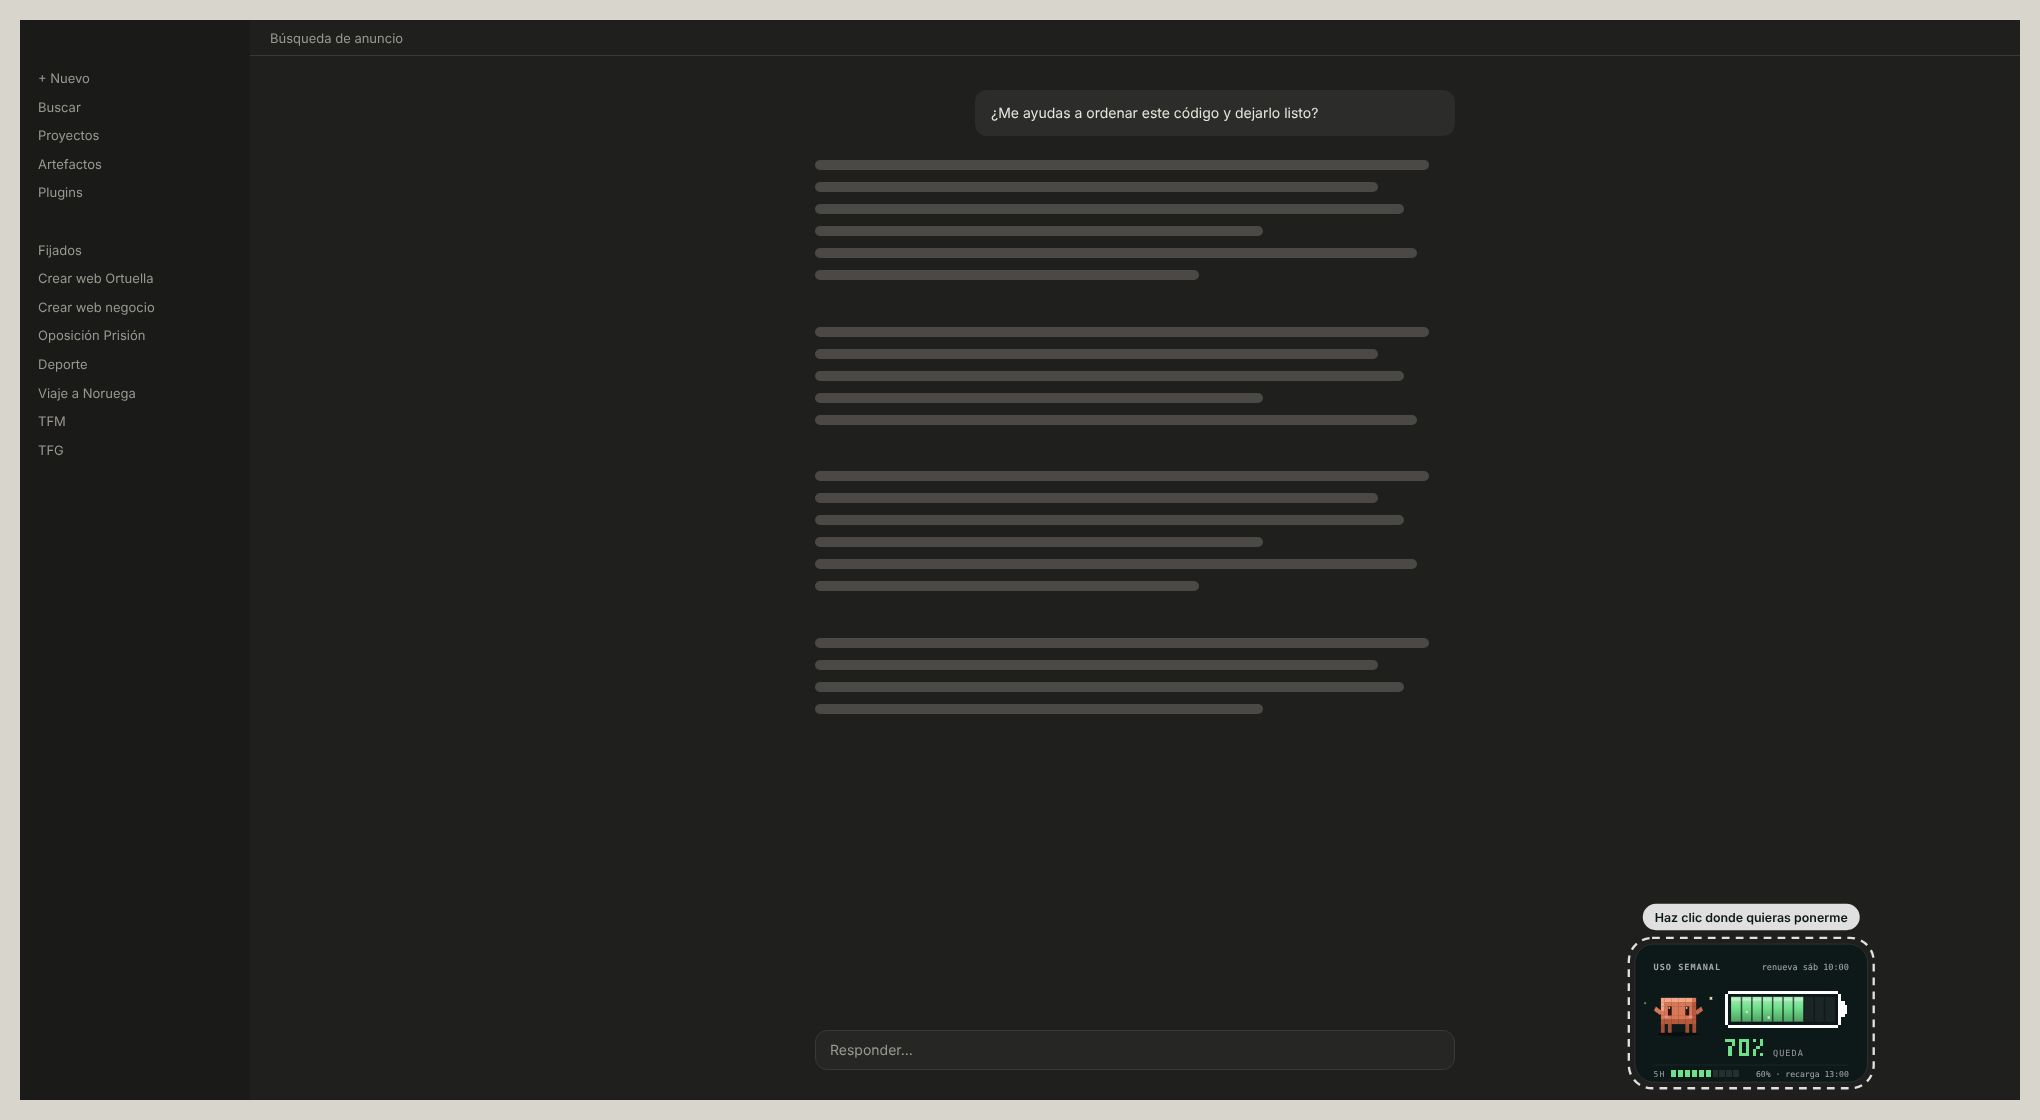
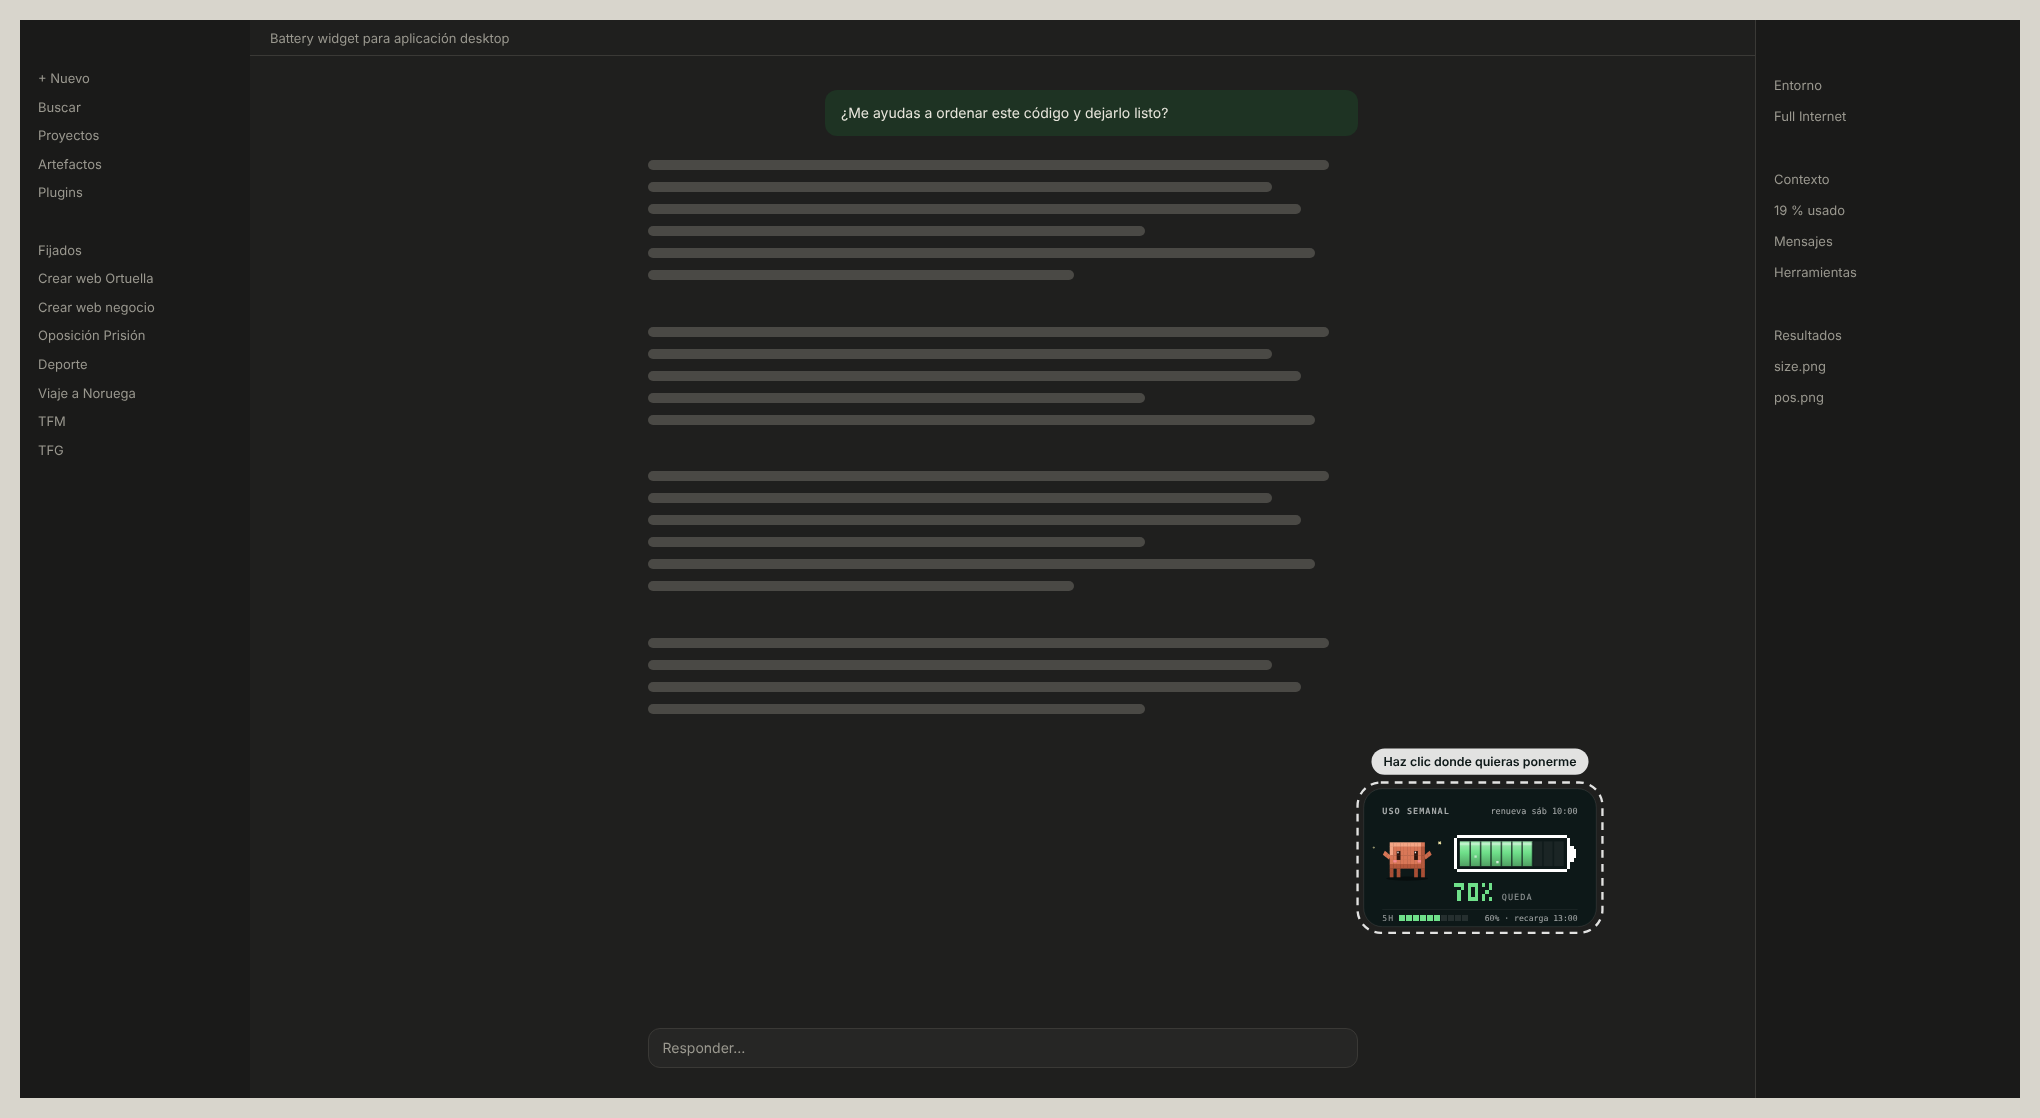
Versión 2.3.0: modo fondo por defecto y posiciones calibradas en la app real
- Modo fondo por defecto: es el que funciona hoy en Claude Code local. El
  panel queda como opción para cuando la app tenga paneles pequeños.
- Las posiciones son puntos de la ventana (como /bateria-mover), medidos
  en la app: a la derecha del chat sin quedar bajo el panel derecho, o a
  la izquierda; nunca en el borde ni cortadas abajo.
- README y capturas con la ventana real de Claude Code.

Claude-Session: https://claude.ai/code/session_01BF3KeP9FQkdcZruovZeUb7

diff --git a/hooks/register.js b/hooks/register.js
@@ -192,9 +192,12 @@ function waitingCard(now) {
 // where each spot sits in the 1600 x 1000 scene: cx is the card's centre, in the free strip beside the chat column
 // (right of it, or left of it between the sidebar and the chat), never in the far corner or under the header;
 // the bottom ones sit level with the prompt box (their foot 18 above the window's foot)
+// where each spot puts the card's centre, as fractions of the window, measured on Claude Code in the desktop app:
+// right of the chat column and clear of the panel the app docks on the right (Entorno, Contexto…), or left of the
+// chat between it and the sidebar; never on the window's edge, never cut at the foot
 const SPOT_AT = {
-  right: { cx: 1385, y: 500, h: 'r', v: 'm' }, 'top-right': { cx: 1385, y: 120, h: 'r', v: 't' }, 'bottom-right': { cx: 1385, y: 831, h: 'r', v: 'b' },
-  left: { cx: 410, y: 500, h: 'l', v: 'm' }, 'top-left': { cx: 410, y: 120, h: 'l', v: 't' }, 'bottom-left': { cx: 410, y: 831, h: 'l', v: 'b' },
+  'bottom-right': { fx: 0.73, fy: 0.78 }, right: { fx: 0.73, fy: 0.55 }, 'top-right': { fx: 0.73, fy: 0.25 },
+  'bottom-left': { fx: 0.235, fy: 0.78 }, left: { fx: 0.235, fy: 0.55 }, 'top-left': { fx: 0.235, fy: 0.25 },
 }
 const SIZES = { tiny: 0.5, small: 0.62, medium: 0.75, large: 0.88, xlarge: 1 }
 // the window shapes, in narrow bands: each moves the card by the crop of a window of its middle shape
@@ -204,38 +207,22 @@ const ratio = r => `${Math.round(r * 1000)}/1000`
 function scene(u, now, spot, size, opacity, lang, style, place, hint) {
   L = TEXT[lang] ?? TEXT.es
   CARD_OPACITY = { solid: 1, normal: 0.9, glass: 0.62 }[opacity] ?? 0.9
-  const at = SPOT_AT[spot] ?? SPOT_AT['bottom-right'], k = SIZES[size] ?? SIZES.small
-  let fg = '', css = ''
-  {
-    const c = !u ? waitingCard(now) : style === 'compact' ? compactCard(u, now) : card(u, now), w = 300 * k, h = c.h * k
-    // while /bateria-mover waits: a pulsing frame round the card and a label over it
-    if (hint) c.body += `<g class="cb-move"><rect x="-8" y="-8" width="316" height="${c.h + 16}" rx="30" fill="none" stroke="#ffffff" stroke-width="3" stroke-dasharray="10 8"/>`
-      + `<rect x="10" y="-52" width="280" height="34" rx="17" fill="#ffffff"/><text x="150" y="-29" font-size="16" font-weight="600" text-anchor="middle" fill="#0b1717">${hint}</text></g>`
-    if (place) {
-      // the scene is 1600 x 1000 cut to the window: the point (fx, fy) of the window lands somewhere else
-      // in the scene for each shape of window, so each band of shapes moves the card to the right place
-      const fx = Math.max(0.05, Math.min(0.95, place.fx)), fy = Math.max(0.05, Math.min(0.95, place.fy))
-      fg = `<g class="cb-at"><g transform="translate(${n2(fx * 1600 - w / 2)} ${n2(fy * 1000 - h / 2)}) scale(${k})">${c.body}</g></g>`
-      for (const [lo, hi] of BANDS) {
-        const r = hi > 5 ? 3.6 : (lo + hi) / 2
-        const dx = r < 1.6 ? (fx - 0.5) * (1000 * r - 1600) : 0, dy = r > 1.6 ? (fy - 0.5) * (1600 / r - 1000) : 0
-        if (Math.abs(dx) + Math.abs(dy) > 0.5) css += `@media (min-aspect-ratio:${ratio(lo)}) and (max-aspect-ratio:${ratio(hi)}){.cb-at{transform:translate(${n2(dx)}px,${n2(dy)}px)}}`
-      }
-      return wrap(css, fg)
-    }
-    const x = at.cx - w / 2, y = at.v === 'b' ? at.y + 160 - h : at.v === 'm' ? 500 - h / 2 : at.y
-    fg = `<g class="cb-at"><g class="cb-nudge"><g transform="translate(${n2(x)} ${n2(y)}) scale(${k})">${c.body}</g></g></g>`
-    // a window narrower than the scene cuts its sides; a wider one, its top and foot: keep the card in the corner
-    for (const [lo, hi] of BANDS) {
-      const r = hi > 5 ? 3.6 : (lo + hi) / 2
-      const dx = r < 1.6 ? (at.h === 'r' ? 500 * r - 800 : 800 - 500 * r) : 0
-      const dy = r > 1.6 ? (at.v === 't' ? 500 - 800 / r : at.v === 'b' ? 800 / r - 500 : 0) : 0
-      if (dx || dy) css += `@media (min-aspect-ratio:${ratio(lo)}) and (max-aspect-ratio:${ratio(hi)}){.cb-at{transform:translate(${n2(dx)}px,${n2(dy)}px)}}`
-    }
-    // the chat column keeps its width in pixels, so in a narrow window the strip on its right is thinner:
-    // there the card moves a little toward the window's edge to keep clear of the chat
-    if (at.h === 'r') css += '@media (min-aspect-ratio:1600/1000) and (max-width:1500px){.cb-nudge{transform:translateX(28px)}}'
-      + '@media (min-aspect-ratio:1600/1000) and (max-width:1300px){.cb-nudge{transform:translateX(51px)}}'
+  const k = SIZES[size] ?? SIZES.small
+  // a spot from /bateria-mover, else the one the settings name: both are a point of the window
+  const at = place ?? SPOT_AT[spot] ?? SPOT_AT['bottom-right']
+  const c = !u ? waitingCard(now) : style === 'compact' ? compactCard(u, now) : card(u, now), w = 300 * k, h = c.h * k
+  // while /bateria-mover waits: a pulsing frame round the card and a label over it
+  if (hint) c.body += `<g class="cb-move"><rect x="-8" y="-8" width="316" height="${c.h + 16}" rx="30" fill="none" stroke="#ffffff" stroke-width="3" stroke-dasharray="10 8"/>`
+    + `<rect x="10" y="-52" width="280" height="34" rx="17" fill="#ffffff"/><text x="150" y="-29" font-size="16" font-weight="600" text-anchor="middle" fill="#0b1717">${hint}</text></g>`
+  // the scene is 1600 x 1000 cut to the window: the point (fx, fy) of the window lands somewhere else
+  // in the scene for each shape of window, so each band of shapes moves the card to the right place
+  const fx = Math.max(0.05, Math.min(0.95, at.fx)), fy = Math.max(0.05, Math.min(0.95, at.fy))
+  const fg = `<g class="cb-at"><g transform="translate(${n2(fx * 1600 - w / 2)} ${n2(fy * 1000 - h / 2)}) scale(${k})">${c.body}</g></g>`
+  let css = ''
+  for (const [lo, hi] of BANDS) {
+    const r = hi > 5 ? 3.6 : (lo + hi) / 2
+    const dx = r < 1.6 ? (fx - 0.5) * (1000 * r - 1600) : 0, dy = r > 1.6 ? (fy - 0.5) * (1600 / r - 1000) : 0
+    if (Math.abs(dx) + Math.abs(dy) > 0.5) css += `@media (min-aspect-ratio:${ratio(lo)}) and (max-aspect-ratio:${ratio(hi)}){.cb-at{transform:translate(${n2(dx)}px,${n2(dy)}px)}}`
   }
   return wrap(css, fg)
 }
@@ -268,7 +255,7 @@ const CHOICES = {
   language: ['es', 'en'],
   mobile: ['hide', 'show'],
 }
-const DEFAULTS = { mode: 'auto', position: 'bottom-right', size: 'small', style: 'full', opacity: 'normal', language: 'es', mobile: 'hide' }
+const DEFAULTS = { mode: 'fondo', position: 'bottom-right', size: 'small', style: 'full', opacity: 'normal', language: 'es', mobile: 'hide' }
 // the Spanish words a person may type for a setting or a value
 const KEY_ALIAS = { modo: 'mode', posicion: 'position', 'posición': 'position', sitio: 'position', 'tamaño': 'size', tamano: 'size', estilo: 'style', opacidad: 'opacity', fondo: 'opacity', idioma: 'language', movil: 'mobile', 'móvil': 'mobile' }
 const VALUE_ALIAS = {

diff --git a/test/battery.test.ts b/test/battery.test.ts
@@ -25,7 +25,7 @@ const engine = (on: any, week: () => number) => {
   mock.store(on)
 }
 
-test('auto mode (the default): opens a small panel and, shown, sets no theme', async ($, on) => {
+test('auto mode: opens a small panel and, shown, sets no theme', { options: { mode: 'auto' } }, async ($, on) => {
   mock.clock(on, { now: NOW })
   let opened: any = null, sets = 0
   on('ui.open', (_: unknown, e: any) => ((opened = e), { value: { isPlaced: true } }))
@@ -43,7 +43,7 @@ test('auto mode (the default): opens a small panel and, shown, sets no theme', a
 
 })
 
-test('panel mode in the terminal: one line of text', async ($, on) => {
+test('panel mode in the terminal: one line of text', { options: { mode: 'auto' } }, async ($, on) => {
   const clock = mock.clock(on, { now: NOW })
   on('ui.open', () => ({ value: { isPlaced: true } }))
   engine(on, () => 30)
@@ -55,7 +55,7 @@ test('panel mode in the terminal: one line of text', async ($, on) => {
   await term.unmount()
 })
 
-test('fondo mode: the theme is set once, and the battery redraws when usage moves', { options: { mode: 'fondo' } }, async ($, on) => {
+test('fondo mode (the default): the theme is set once, and the battery redraws when usage moves', { options: { mode: 'fondo' } }, async ($, on) => {
   const clock = mock.clock(on, { now: NOW })
   let sets = 0, week = 8
   on('theme.set', () => (sets++, { value: { isDrawn: true, requestId: 'bg' } }))
@@ -118,7 +118,7 @@ test('/bateria-mover shows the hint, and typed again calls the move off', { opti
   await ui.unmount()
 })
 
-test('panel mode: the first message opens the panel again, once', async ($, on) => {
+test('panel mode: the first message opens the panel again, once', { options: { mode: 'auto' } }, async ($, on) => {
   mock.clock(on, { now: NOW })
   let opens = 0
   on('ui.open', () => (opens++, { value: { isPlaced: true } }))
@@ -131,7 +131,7 @@ test('panel mode: the first message opens the panel again, once', async ($, on) 
   expect(opens).toBe(2)
 })
 
-test('auto mode: where the app shows no panel, the card goes on the background', async ($, on) => {
+test('auto mode: where the app shows no panel, the card goes on the background', { options: { mode: 'auto' } }, async ($, on) => {
   mock.clock(on, { now: NOW })
   let sets = 0
   on('ui.open', () => ({ value: { isPlaced: false, reason: 'no panes here' } }))
@@ -144,7 +144,7 @@ test('auto mode: where the app shows no panel, the card goes on the background',
   await ui.unmount()
 })
 
-test('/bateria-ajustes lists the settings and changes them, in Spanish words too', async ($, on) => {
+test('/bateria-ajustes lists the settings and changes them, in Spanish words too', { options: { mode: 'auto' } }, async ($, on) => {
   const clock = mock.clock(on, { now: NOW })
   on('ui.open', () => ({ value: { isPlaced: true } }))
   on('theme.set', () => ({ value: { isDrawn: true, requestId: 'bg' } }))
@@ -169,7 +169,7 @@ test('/bateria-ajustes lists the settings and changes them, in Spanish words too
   expect(reset).toContain('borrados')
 })
 
-test('/bateria-diagnostico says what the app answered', async ($, on) => {
+test('/bateria-diagnostico says what the app answered', { options: { mode: 'auto' } }, async ($, on) => {
   mock.clock(on, { now: NOW })
   on('ui.open', () => ({ value: { isPlaced: false, reason: 'no panes here' } }))
   on('theme.set', () => ({ value: { isDrawn: false, reason: 'no look drawn' } }))
@@ -187,7 +187,7 @@ test('before any usage figures, the background shows a waiting card', () => {
   expect(svg).toContain('esperando datos de uso')
 })
 
-test('a window that attaches later gets the panel', async ($, on) => {
+test('a window that attaches later gets the panel', { options: { mode: 'auto' } }, async ($, on) => {
   mock.clock(on, { now: NOW })
   let placed = false, opens = 0
   on('ui.open', () => (opens++, { value: placed ? { isPlaced: true } : { isPlaced: false, reason: 'no-surface' } }))
@@ -203,7 +203,7 @@ test('a window that attaches later gets the panel', async ($, on) => {
   expect(text).toContain('mini panel mostrado: sí')
 })
 
-test('in a side panel the card is centred', async ($, on) => {
+test('in a side panel the card is centred', { options: { mode: 'auto' } }, async ($, on) => {
   mock.clock(on, { now: NOW })
   on('ui.open', () => ({ value: { isPlaced: true } }))
   engine(on, () => 30)

diff --git a/README.md b/README.md
@@ -1,31 +1,27 @@
 # Uso-Bateria 🔋
 
-Clawd, la mascota de Claude, al lado de una **batería pixelada** que te dice cuánto te queda de tu uso **semanal** de Claude. Aparece en las sesiones de **Claude Code** de la app de escritorio: en un **mini panel** que la propia app coloca en una esquina del chat y recoloca al abrir o cerrar paneles, o, donde no hay paneles, **pintada en el fondo** de la ventana. Todo se ajusta escribiendo `/bateria-ajustes`.
+Clawd, la mascota de Claude, al lado de una **batería pixelada** que te dice cuánto te queda de tu uso **semanal** de Claude. Aparece en las sesiones de **Claude Code** de la app de escritorio, **pintada en el fondo** de la ventana, en el hueco libre junto al chat. La mueves con `/bateria-mover` y un clic, y lo ajustas todo con `/bateria-ajustes`.
 
-![Uso-Bateria en un chat](assets/chat.png)
+![Uso-Bateria en Claude Code](assets/chat.png)
 
 <details>
-<summary>Ver en Claude Code, en modo claro y en un portátil</summary>
-
-**Claude Code con el panel de la derecha abierto**
-
-![En Claude Code con el panel abierto](assets/panel.png)
-
-**Claude Code con la lista de hilos abierta**
-
-![En Claude Code con la lista de hilos](assets/code.png)
+<summary>Ver en modo claro, en un portátil y en modo panel</summary>
 
 **Modo claro**
 
 ![En modo claro](assets/light.png)
 
-**Portátil (1440 × 900)**
+**Portátil (1440 × 900)**: con el panel derecho abierto apenas queda hueco junto al chat; usa `/bateria-mover`, o el tamaño `diminuto`.
 
 ![En un portátil](assets/laptop.png)
 
+**Modo panel** (simulación de cómo quedará cuando la app tenga paneles pequeños)
+
+![Modo panel](assets/panel.png)
+
 </details>
 
-> Las capturas son simulaciones de Claude Desktop (a 2000 × 1080, salvo la del portátil). El recuadro y sus animaciones son los reales; el sitio exacto del mini panel lo decide la app.
+> Las capturas son simulaciones de Claude Code en la app de escritorio, con el panel derecho abierto, a 2000 × 1078 salvo la del portátil. El recuadro y sus animaciones son los reales.
 
 ## Dónde funciona
 
@@ -52,15 +48,17 @@ Además:
 
 ## Tres modos
 
-| | **Auto** (por defecto) | **Panel** | **Fondo** |
+| | **Fondo** (por defecto) | **Panel** | **Auto** |
 | --- | --- | --- | --- |
-| Dónde sale | En el mini panel; si la app no lo muestra, en el fondo | Siempre en el mini panel | Siempre pintado en el fondo de la ventana |
-| Paneles abiertos (Hilos, Contexto…) | La app recoloca el mini panel | La app lo recoloca | Un panel abierto lo puede tapar |
-| Fondos y temas | Compatible, salvo si tiene que pasar al fondo | Compatible con cualquiera | Ocupa el fondo: no se combina con otro tema que ponga fondo |
-| Cómo se mueve | Lo coloca la app (en el fondo, con `/bateria-mover`) | Lo coloca la app | Con `/bateria-mover` y un clic, o con la posición |
-| Tamaño | Fijo en píxeles (en el fondo, crece con la ventana) | Fijo en píxeles | Crece con la ventana |
+| Dónde sale | Pintada en el fondo de la ventana, junto al chat | En un panel de la app | En el panel; si la app no lo muestra, en el fondo |
+| Cómo se mueve | Con `/bateria-mover` y un clic, o con la posición | Lo coloca la app | Según dónde esté |
+| Paneles abiertos (Hilos, Contexto…) | Un panel puede taparla: muévela con `/bateria-mover` | La app lo recoloca | — |
+| Fondos y temas | Ocupa el fondo: no se combina con otro tema que ponga fondo | Compatible con cualquiera | — |
+| Hoy | ✅ Funciona en sesiones locales | ⚠ La app lo abre como panel lateral grande, no como mini panel | ⚠ Igual que panel |
 
-Para cambiar de modo: `/bateria-ajustes modo panel` (o `auto`, `fondo`). Se aplica al momento.
+El mini panel pequeño en una esquina depende de una función que la app todavía no tiene: el plugin ya lo pide, así que cuando la app lo añada bastará con `/bateria-ajustes modo panel`.
+
+Para cambiar de modo: `/bateria-ajustes modo fondo` (o `panel`, `auto`). Se aplica al momento.
 
 ## Instalación
 
@@ -173,7 +171,7 @@ Los cambios se ven al momento y se guardan para las próximas sesiones. Para vol
 
 | Ajuste | Valores | Por defecto |
 | --- | --- | --- |
-| `modo` | `auto`, `panel`, `fondo` | `auto` |
+| `modo` | `fondo`, `panel`, `auto` | `fondo` |
 | `posición` (en el fondo) | `abajo-derecha`, `derecha`, `arriba-derecha`, `abajo-izquierda`, `izquierda`, `arriba-izquierda` | `abajo-derecha` |
 | `tamaño` | `diminuto`, `pequeño`, `mediano`, `grande`, `muy-grande` | `pequeño` |
 | `estilo` | `completo`, `compacto` | `completo` |
@@ -221,11 +219,10 @@ En el fondo el recuadro crece con la ventana: `pequeño` mide unos 220 px de anc
 
 ### Posiciones (en el fondo)
 
-En el fondo, el recuadro va **en el hueco libre al lado del chat**: entre el chat y el borde derecho (las `right`) o entre la barra lateral y el chat (las `left`). Las `bottom` lo ponen a la altura de la caja donde escribes; las `top` lo suben, sin meterlo debajo de la barra de arriba. Si ninguna te encaja, usa `/bateria-mover`.
+En el fondo, el recuadro va **en el hueco libre al lado del chat**: a la derecha, entre el chat y el panel derecho de la app (las `derecha`), o a la izquierda, entre la barra lateral y el chat (las `izquierda`). Las `abajo` lo bajan y las `arriba` lo suben, sin cortarlo ni meterlo debajo de la barra de arriba. Si ninguna te encaja, usa `/bateria-mover`.
 
 ![Posiciones en modo fondo](assets/pos.png)
 
-![Modo fondo](assets/fondo.png)
 
 ### Fondo del recuadro
 
@@ -275,7 +272,7 @@ En **+** → **Plugins**, desactiva o elimina `uso-bateria`, o escribe `claude p
 
 ## Estado
 
-Es un proyecto en marcha. El modo auto, el mini panel, `/bateria-ajustes` y `/bateria-mover` son nuevos y aún se están probando en la app real. Si algo no se ve bien, abre un *issue* en este repositorio con una captura.
+Probado en Claude Code local de la app de escritorio: el modo fondo, `/bateria-mover`, `/bateria-ajustes` y `/bateria-diagnostico` funcionan. Pendiente de la app: el mini panel pequeño y las sesiones en la nube. Si algo no se ve bien, abre un *issue* en este repositorio con una captura.
 
 ## Créditos
 
